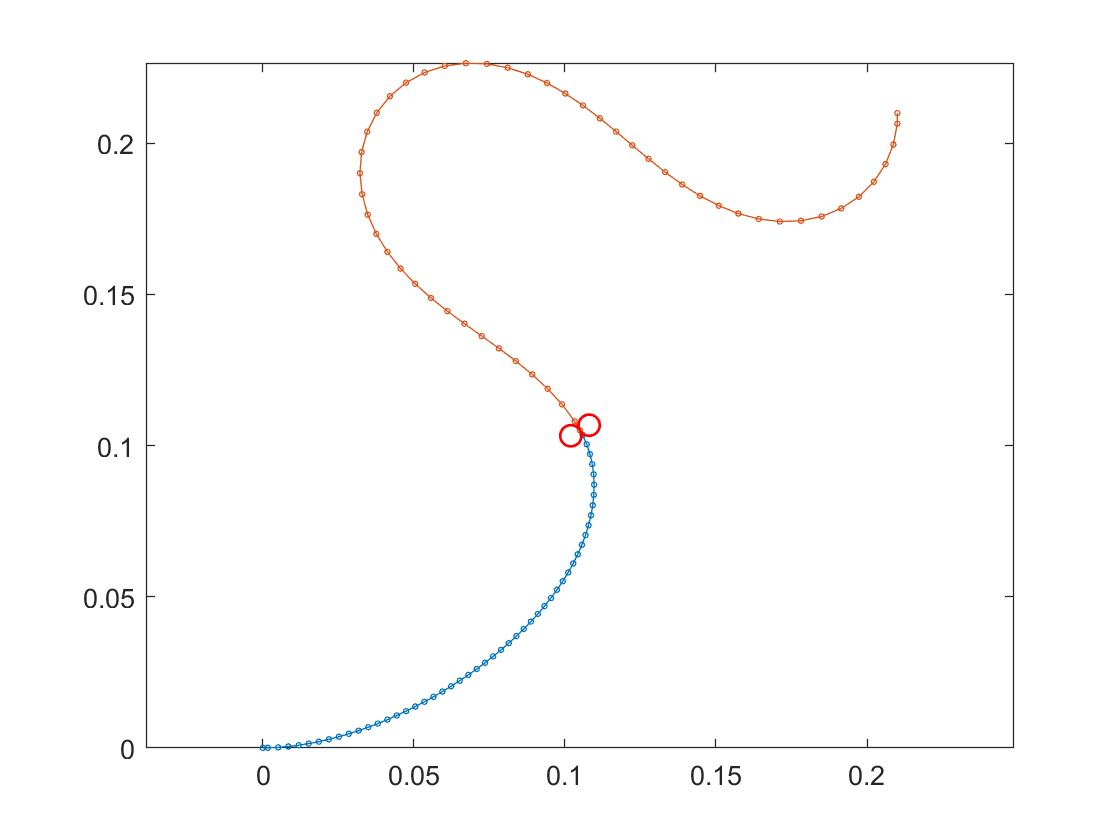
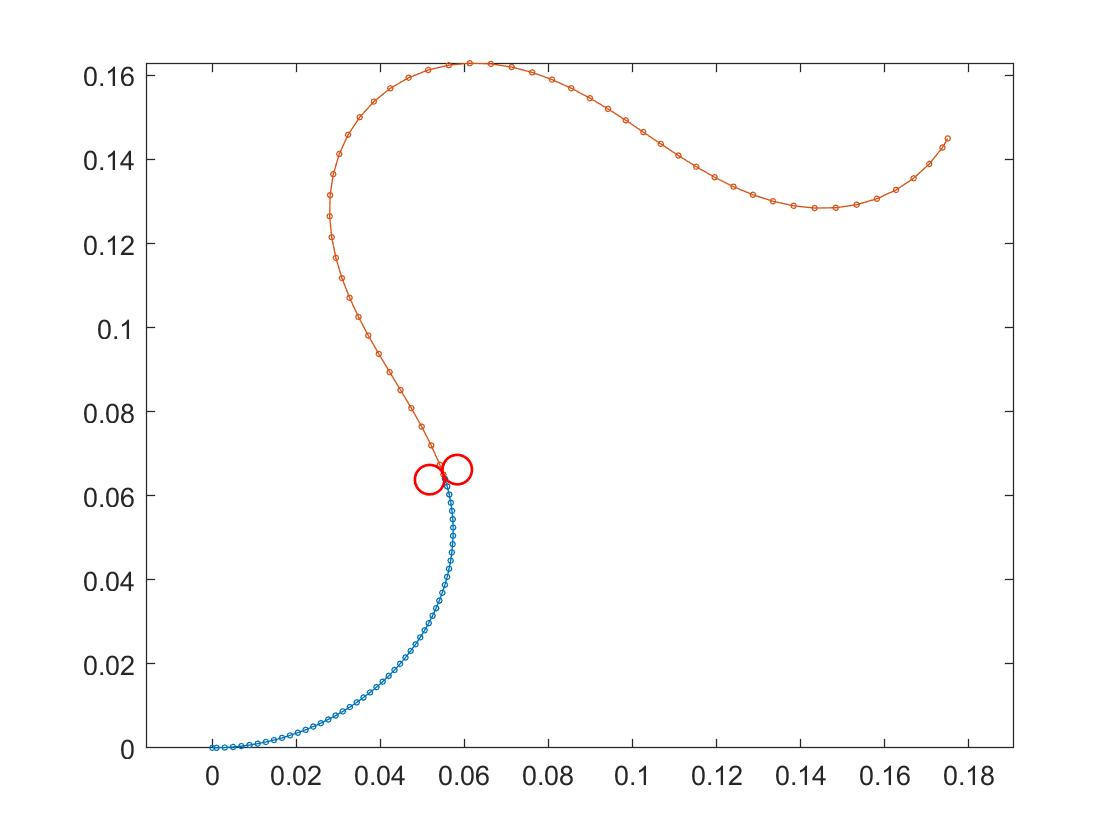
found a bug

diff --git a/Kinetostatics/tri/demo24.m b/Kinetostatics/tri/demo24.m
@@ -53,7 +53,7 @@ phi_pulley=pos_end(3)-pulley(3);
 pos_end_pulley=[r_pulley;phi_pulley];
 
 n2=50;
-R2=planar_nR(E,L0,wid,thi,n2,pos_end_pulley);
+R2=planar_nR(E,L0-x_solve(end-2),wid,thi,n2,pos_end_pulley);
 
 X0=zeros(n2+3,1);
 
